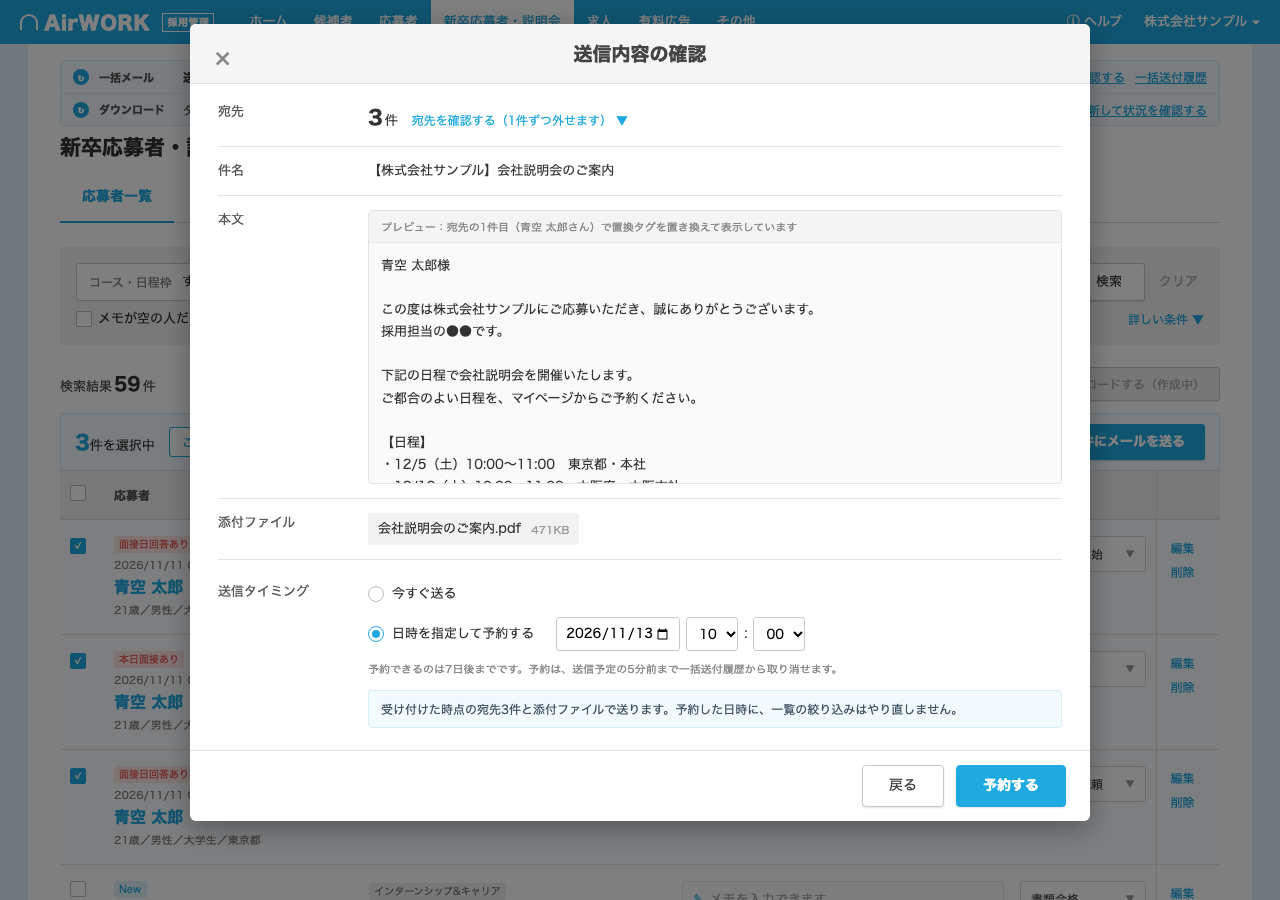
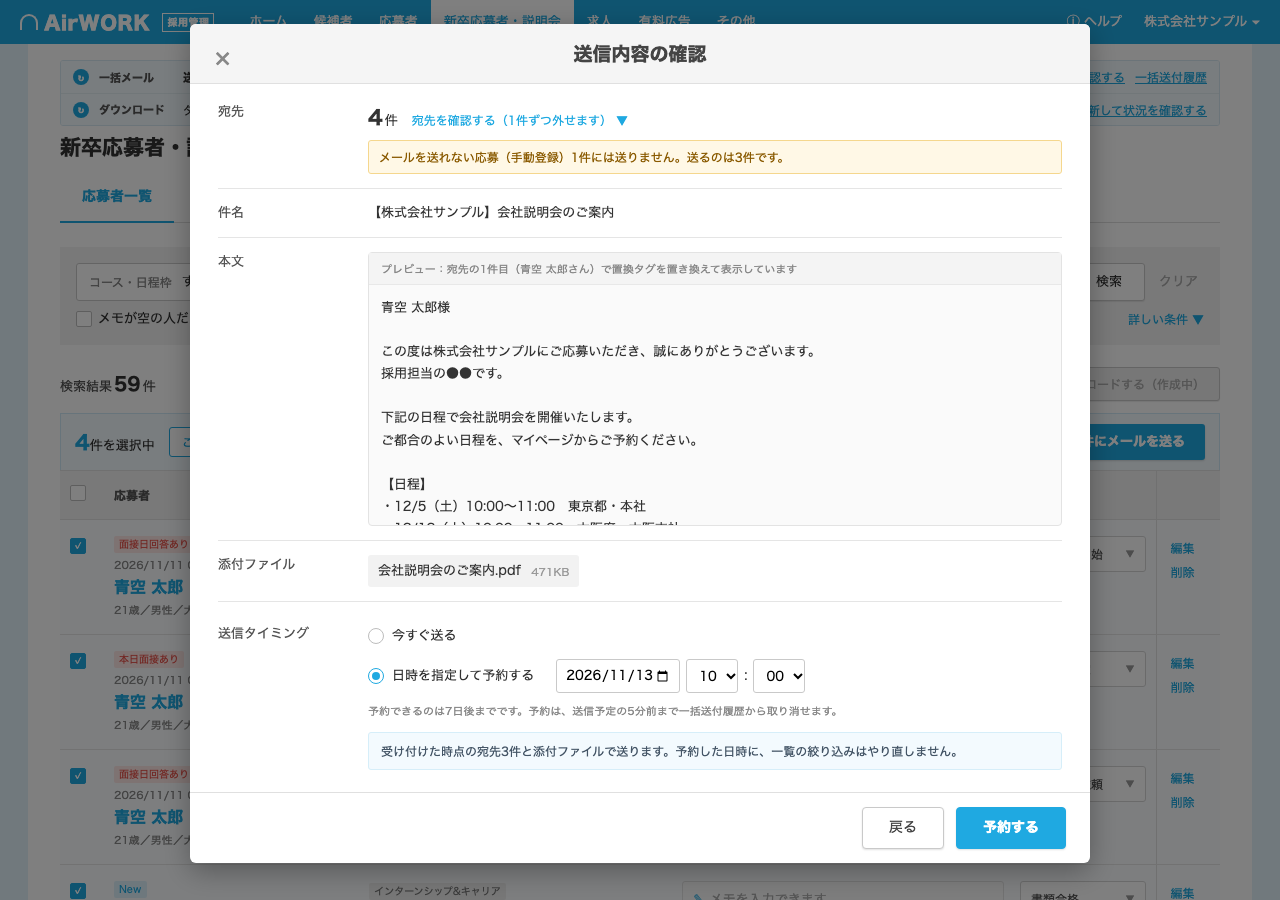
手動登録の応募は送らず、送信内容の確認で件数を知らせる

diff --git a/app.js b/app.js
@@ -92,6 +92,7 @@
   });
   APPS.forEach((a) => { if (a.status === '面接日確定' && a.id % 2 === 0) a.labels.push(['pk', '本日面接あり']); });
   APPS.sort((a, b) => b.date - a.date || a.id - b.id);
+  APPS.forEach((a) => { if (a.name === '石井 陸') a.manual = true; });
   const jobById = (id) => JOBS.find((j) => j.id === id);
 
   const YEARS = ['26', '27', '28', '29', '30', '31'];
@@ -657,6 +658,8 @@
     const body = $('xBody'); const foot = $('xFoot');
     $('xmd').classList.toggle('narrow', X.step === 'done');
     const apps = X.ids.map((id) => APPS.find((a) => a.id === id));
+    const nManual = apps.filter((a) => a.manual).length;
+    const nSend = apps.length - nManual;
     if (X.step === 'edit') {
       $('xTitle').textContent = 'メールを作成';
       body.innerHTML = `
@@ -692,8 +695,9 @@
       const err = schedErr();
       body.innerHTML = `
         <div class="mxr"><div class="mxl flat">宛先</div><div class="mxv flat"><span class="mxcnt"><b>${apps.length}</b>件</span><span class="mxlk" id="xToTgl">${X.showTo ? '宛先を閉じる ▲' : '宛先を確認する（1件ずつ外せます） ▼'}</span>
-          ${X.showTo ? `<div class="mxto">${apps.map((a) => { const j = jobById(a.job); return `<div class="tr"><span class="nm2">${esc(a.name)}</span><span class="jb">[${j.id}] ${esc(j.name)}</span><span class="rm" data-rm="${a.id}">✕ 外す</span></div>`; }).join('') || '<div class="tr">宛先がありません。</div>'}</div>` : ''}
-          ${apps.length ? '' : '<div class="mxerr">宛先が0件です。戻って選び直してください。</div>'}</div></div>
+          ${X.showTo ? `<div class="mxto">${apps.map((a) => { const j = jobById(a.job); return `<div class="tr"><span class="nm2">${esc(a.name)}</span><span class="jb">[${j.id}] ${esc(j.name)}${a.manual ? '<span class="mn">手動登録・送りません</span>' : ''}</span><span class="rm" data-rm="${a.id}">✕ 外す</span></div>`; }).join('') || '<div class="tr">宛先がありません。</div>'}</div>` : ''}
+          ${nManual ? `<div class="mxwarn">メールを送れない応募（手動登録）${nManual}件には送りません。送るのは${nSend}件です。</div>` : ''}
+          ${nSend ? '' : '<div class="mxerr">送れる宛先が0件です。戻って選び直してください。</div>'}</div></div>
         <div class="mxr"><div class="mxl flat">件名</div><div class="mxv flat">${first ? esc(fill(X.subj, first)) : esc(X.subj)}</div></div>
         <div class="mxr"><div class="mxl flat">本文</div><div class="mxv flat"><div class="mxprev"><div class="ph">${first ? `プレビュー：宛先の1件目（${esc(first.name)}さん）で置換タグを置き換えて表示しています` : 'プレビュー'}</div><div class="pb">${esc(first ? fill(X.body, first) : X.body)}</div></div></div></div>
         <div class="mxr"><div class="mxl flat">添付ファイル</div><div class="mxv flat">${X.files.length ? `<div class="mxchips" style="margin:0">${X.files.map((f) => `<span class="mxchip">${esc(f.name)}<span class="sz">${fsize(f.size)}</span></span>`).join('')}</div>` : 'なし'}</div></div>
@@ -704,10 +708,10 @@
             <select id="xHH">${Array.from({ length: 24 }, (_, h) => String(h).padStart(2, '0')).map((h) => `<option ${h === X.hh ? 'selected' : ''}>${h}</option>`).join('')}</select>:<select id="xMI">${['00', '10', '20', '30', '40', '50'].map((m) => `<option ${m === X.mi ? 'selected' : ''}>${m}</option>`).join('')}</select></span></div>
           <div class="mxerr" id="xSchedErr">${esc(err)}</div>
           <div class="mxnote">予約できるのは7日後までです。予約は、送信予定の5分前まで一括送付履歴から取り消せます。</div>
-          <div class="mxfix">受け付けた時点の宛先${apps.length}件と添付ファイルで送ります。予約した日時に、一覧の絞り込みはやり直しません。</div>
+          <div class="mxfix">受け付けた時点の宛先${nSend}件と添付ファイルで送ります。予約した日時に、一覧の絞り込みはやり直しません。</div>
         </div></div>`;
       const label = X.when === 'at' ? '予約する' : '送信する';
-      foot.innerHTML = `<span class="sp"></span><span class="mbtn" id="xBack">戻る</span><span class="mbtn pr ${!apps.length || err || X.sending ? 'dis' : ''}" id="xSend">${X.sending ? '受け付けています…' : label}</span>`;
+      foot.innerHTML = `<span class="sp"></span><span class="mbtn" id="xBack">戻る</span><span class="mbtn pr ${!nSend || err || X.sending ? 'dis' : ''}" id="xSend">${X.sending ? '受け付けています…' : label}</span>`;
       $('xToTgl').onclick = () => { X.showTo = !X.showTo; renderMail(); };
       body.querySelectorAll('[data-rm]').forEach((r) => { r.onclick = () => { X.ids = X.ids.filter((id) => id !== Number(r.dataset.rm)); renderMail(); }; });
       body.querySelectorAll('[data-w]').forEach((l) => { l.onclick = (e) => { if (e.target.closest('.when') && X.when === 'at') return; if (X.when !== l.dataset.w) { X.when = l.dataset.w; renderMail(); } }; });
@@ -716,21 +720,21 @@
       $('xMI').onchange = (e) => { X.mi = e.target.value; renderMail(); };
       $('xBack').onclick = () => { X.step = 'edit'; renderMail(); };
       $('xSend').onclick = () => {
-        if (X.sending || !apps.length || schedErr()) return;
+        if (X.sending || !nSend || schedErr()) return;
         X.sending = true; renderMail();
         setTimeout(() => { X.at = X.when === 'at' ? new Date(`${X.date}T${X.hh}:${X.mi}:00`) : null; X.step = 'done'; renderMail(); }, 900);
       };
     } else {
       $('xTitle').textContent = '受け付けました';
       body.innerHTML = `<div class="mxdone"><div class="h">${X.at ? '送信の予約を受け付けました。' : '送信を受け付けました。'}</div><div class="s">結果は、一覧左下の<span class="mxlk" data-hist="1" style="margin:0">「一括送付履歴を確認」</span>から確認できます。${X.at ? '予約は、送信予定の5分前まで取り消せます。' : '受け付けた順に送ります。'}</div>
-        <div class="mxkv"><span class="k">件名</span><span>${esc(X.subj)}</span><span class="k">宛先</span><span>${apps.length}件</span><span class="k">送信予定</span><span>${X.at ? fmtWhen(X.at, true) : '今すぐ'}</span><span class="k">添付ファイル</span><span>${X.files.length ? X.files.map((f) => esc(f.name)).join('<br>') : 'なし'}</span></div></div>`;
+        <div class="mxkv"><span class="k">件名</span><span>${esc(X.subj)}</span><span class="k">宛先</span><span>${nSend}件${nManual ? `（手動登録の${nManual}件は送りません）` : ''}</span><span class="k">送信予定</span><span>${X.at ? fmtWhen(X.at, true) : '今すぐ'}</span><span class="k">添付ファイル</span><span>${X.files.length ? X.files.map((f) => esc(f.name)).join('<br>') : 'なし'}</span></div></div>`;
       foot.innerHTML = '<span class="sp"></span><span class="mbtn" id="xBack">閉じる</span>';
       $('xBack').onclick = finishMail;
     }
   }
   function finishMail() {
     closeMail();
-    HIST.push({ id: `h${Date.now()}`, st: X.at ? 'rsv' : 'run', at: X.at || new Date(), subj: X.subj, count: X.ids.length, ids: [...X.ids], body: X.body, files: X.files.map((f) => f.name), fail: [] });
+    HIST.push({ id: `h${Date.now()}`, st: X.at ? 'rsv' : 'run', at: X.at || new Date(), subj: X.subj, count: X.ids.length, manual: X.ids.filter((id) => APPS.find((a) => a.id === id).manual).length, ids: [...X.ids], body: X.body, files: X.files.map((f) => f.name), fail: [] });
     syncFromHist();
     selected = new Set();
     render();
@@ -779,7 +783,7 @@
             ${nf ? `<div class="hfail">未達の学生：${h.fail.map(([n, r]) => `<b>${esc(n)}</b>（${esc(r)}）`).join('、')}</div>` : ''}
             <span class="mxlk" style="margin:0" data-body="${h.id}">${h.st === 'rsv' ? '送る本文' : '送った本文'}を${open ? '閉じる ▲' : '見る ▼'}</span>
             ${open ? `<div class="hbody">${esc(h.body)}</div>` : ''}</div>
-          <div class="hn">${h.st === 'done' ? `送付 ${h.count - nf - (h.del || 0)}件${nf ? `<br><span class="red">未達 ${nf}件</span>` : ''}${h.del ? `<br><span class="gy2">応募者削除 ${h.del}件（送らず）</span>` : ''}` : `${h.count}件`}</div>
+          <div class="hn">${h.st === 'done' ? `送付 ${h.count - nf - (h.del || 0) - (h.manual || 0)}件${nf ? `<br><span class="red">未達 ${nf}件</span>` : ''}${h.del ? `<br><span class="gy2">応募者削除 ${h.del}件（送らず）</span>` : ''}` : `${h.count - (h.manual || 0)}件`}${h.manual ? `<br><span class="gy2">手動登録 ${h.manual}件（送らず）</span>` : ''}</div>
           <div class="hop">${op}</div></div>`;
       }).join('')}`;
   }
@@ -820,7 +824,7 @@
 
   search();
   if (location.hash.startsWith('#mail')) {
-    selected = new Set(results.slice(0, 3).map((a) => a.id)); renderTable(); renderBar(); openMail();
+    selected = new Set(results.slice(0, 4).map((a) => a.id)); renderTable(); renderBar(); openMail();
     if (location.hash !== '#mail') { const t = TEMPLATES[0]; Object.assign(X, { tpl: t.id, subj: t.subj, body: t.body, files: [{ name: '会社説明会のご案内.pdf', size: 482000 }] }); }
     if (location.hash === '#mail-confirm' || location.hash === '#mail-at' || location.hash === '#mail-done') X.step = 'confirm';
     if (location.hash === '#mail-at' || location.hash === '#mail-done') X.when = 'at';

diff --git a/style.css b/style.css
@@ -258,6 +258,8 @@ td.cs { padding-left: 0; }
 .mxnote { font-size: 11px; color: #888; margin-top: 6px; line-height: 1.6; }
 .mxerr { font-size: 12px; color: #E5534B; margin-top: 6px; }
 .mxerr:empty { display: none; }
+.mxwarn { margin-top: 8px; padding: 7px 10px; background: #FFF8E6; border: 1px solid #F5D78E; border-radius: 3px; font-size: 12px; color: #8A5A00; }
+.mxto .mn { margin-left: 8px; font-size: 11px; color: #8A5A00; background: #FFF3D6; border-radius: 2px; padding: 1px 6px; }
 .mxfile { display: flex; align-items: center; gap: 10px; }
 .mxfbtn { height: 36px; padding: 0 16px; border: 1px solid #C9C9C9; border-radius: 3px; background: #fff; display: inline-flex; align-items: center; cursor: pointer; box-shadow: 0 1px 2px rgba(0,0,0,.08); }
 .mxfbtn.dis { opacity: .45; pointer-events: none; }
